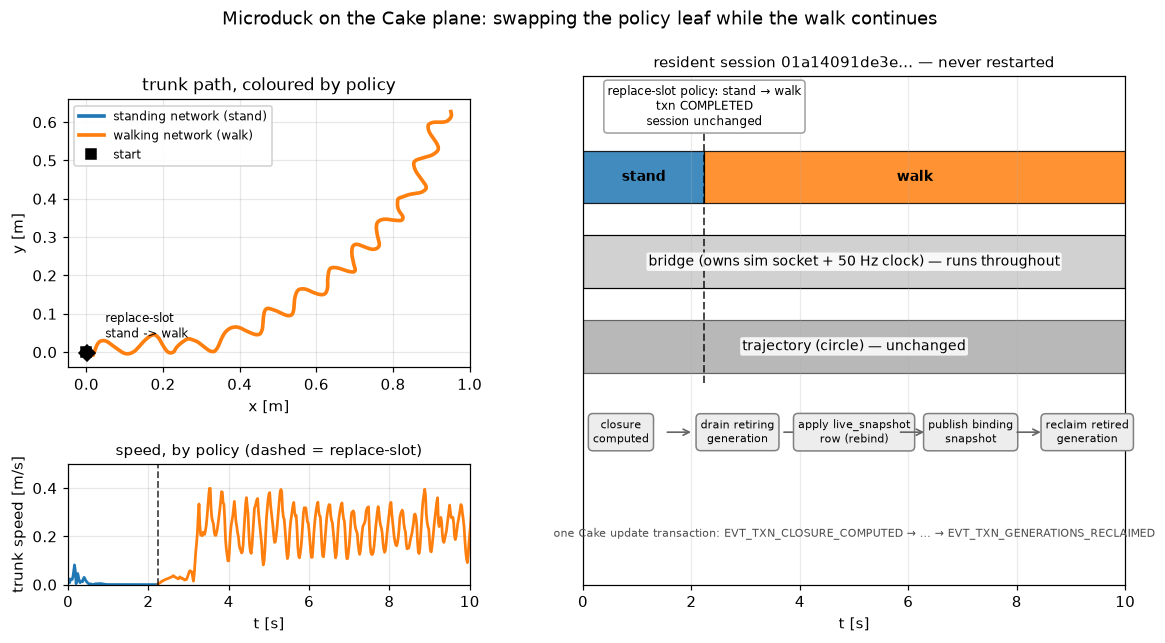
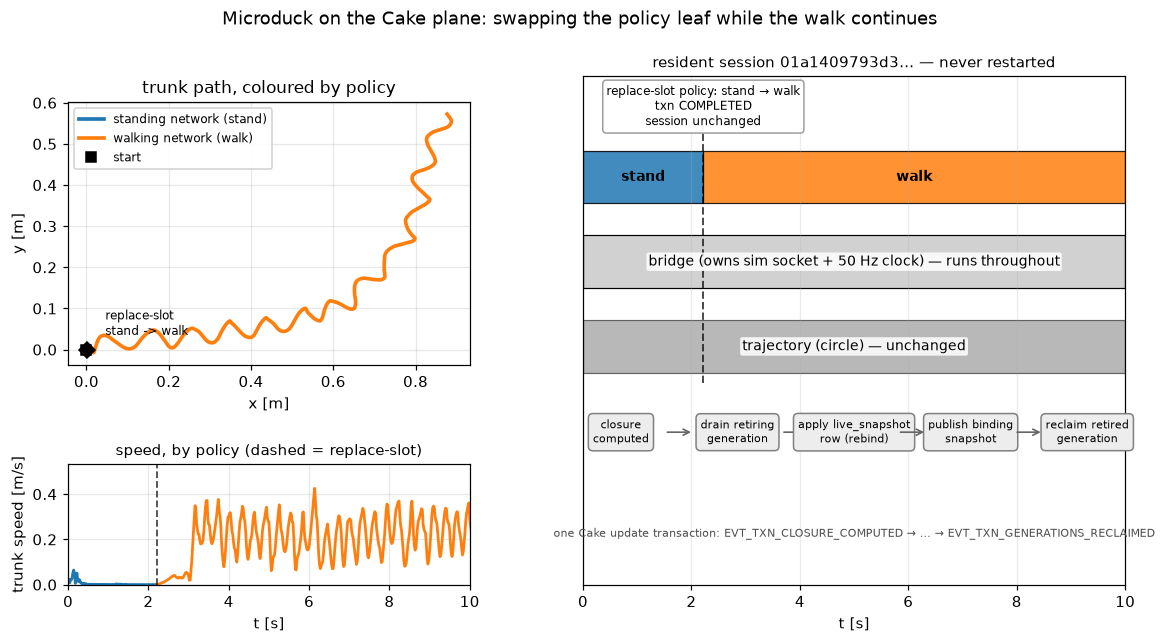
feat(cake): show the policy swap in the GIF, not just the figure
The trajectory GIF answers "the resident kept running while the trajectory
changed" with its tracking panel: the path coloured by the active module, and a
bottom strip naming it over time. The policy swap had only a plain walk GIF.

Drive that same panel with the *policy* schedule. `SwapPanels` grows a `label`
(the titles said "trajectory module"), the client takes `--reference` (the one
trajectory every scheduled segment tracks) and `--module-label`, and the runner
passes `--schedule stand@0,walk@2 --reference circle --module-label policy`. The
GIF now colours the path by which policy drove it and names it in the
"policy active over time (dashed = replace-slot swap)" strip.

The `cake` profile's 1080-px composite redraw is heavy enough to starve the
two-thread split (the policy is a leaf behind a separate clock owner), which made
the duck fall before the swap in ~2 of 3 runs; `compact` renders the same panel
at 720 px and holds, so `make policy-swap` defaults to it (PGIF=cake for the
heavy profile).

diff --git a/demos/demo_cake_policy.py b/demos/demo_cake_policy.py
@@ -189,6 +189,8 @@ def run(
     segments: list[tuple[str, float]] | None = None,
     panel_seconds: float | None = None,
     anchor: bool = False,
+    reference_traj: str | None = None,
+    module_label: str = "trajectory module",
     video_name: str = "microduck_cake_walk.gif",
 ) -> dict:
     # The sim's own `command` field is unused: the trajectory comes from the
@@ -213,9 +215,15 @@ def run(
     ctes: list[float] = []
     last_action = np.zeros(N_ACTIONS)
 
-    # The reference path each scheduled module tracks, so the client can measure
-    # cross-track error without reaching into the private capsule.
-    refs = [_reference_for(name) for name, _ in segments] if segments else None
+    # The reference path each scheduled segment tracks, so the client can measure
+    # cross-track error without reaching into the private capsule. A policy swap
+    # schedules *policy* segments (stand/walk) under one trajectory, so `reference`
+    # names the trajectory whose path every segment tracks.
+    if segments and reference_traj:
+        base = _reference_for(reference_traj)
+        refs = [base] * len(segments)
+    else:
+        refs = [_reference_for(name) for name, _ in segments] if segments else None
     # Anchored metric state: the capture is per segment (see the loop).
     anchor_seg = -1
     anchor_pose = (0.0, 0.0, 0.0)
@@ -236,7 +244,9 @@ def run(
         # The client is launched with a +40 s safety margin on the loop, so the
         # panel's time axis must follow the *intended* run, not the loop bound —
         # otherwise the walk only fills a third of the window.
-        panels = SwapPanels(seg_list, panel_seconds if panel_seconds is not None else seconds, references=seg_refs)
+        panels = SwapPanels(
+            seg_list, panel_seconds if panel_seconds is not None else seconds, references=seg_refs, label=module_label
+        )
         grabber = FrameGrabber(sim, render, panels)
         if not grabber.enabled:
             grabber = None
@@ -366,6 +376,16 @@ def main(argv: list[str] | None = None) -> int:
         help="the trajectory capsules re-parent their paths onto the duck; mirror that in the error metric",
     )
     parser.add_argument(
+        "--reference",
+        default=None,
+        help="trajectory whose path every scheduled segment tracks (for a policy swap: --schedule stand@0,walk@2 --reference circle)",
+    )
+    parser.add_argument(
+        "--module-label",
+        default="trajectory module",
+        help="what --schedule's segments are, for the panel titles (e.g. 'policy')",
+    )
+    parser.add_argument(
         "--video-name",
         default="microduck_cake_walk.gif",
         help="GIF file name under --out-dir",
@@ -386,6 +406,8 @@ def main(argv: list[str] | None = None) -> int:
         segments=segments,
         panel_seconds=args.panel_duration,
         anchor=args.anchor,
+        reference_traj=args.reference,
+        module_label=args.module_label,
         video_name=args.video_name,
     )
     if metrics["steps"] < 10:

diff --git a/src/shinro_demo_microduck/viz.py b/src/shinro_demo_microduck/viz.py
@@ -519,6 +519,7 @@ class SwapPanels:
         duration,
         *,
         references: list[np.ndarray | None] | None = None,
+        label: str = "trajectory module",
         wh: tuple[float, float] = (6.2, 6.6),
         dpi: int = 100,
     ) -> None:
@@ -534,7 +535,7 @@ class SwapPanels:
         self.fig = plt.figure(figsize=wh, dpi=dpi)
         gs = self.fig.add_gridspec(3, 1, height_ratios=[3.0, 1.6, 0.7], hspace=0.5)
         self.ax = self.fig.add_subplot(gs[0, 0])
-        self.ax.set_title("bird's-eye trunk path vs reference, coloured by trajectory module", fontsize=11)
+        self.ax.set_title(f"bird's-eye trunk path vs reference, coloured by {label}", fontsize=11)
         # The reference each module steers toward, dashed and without a legend
         # entry: the trunk line already names the module. Kept so an anchored run
         # can re-place a segment's reference once its anchor is known.
@@ -559,7 +560,7 @@ class SwapPanels:
         self.ax.legend(loc="best", fontsize=8, framealpha=0.9)
 
         self.axerr = self.fig.add_subplot(gs[1, 0])
-        self.axerr.set_title("tracking error (cross-track |Δ|), coloured by trajectory module", fontsize=9)
+        self.axerr.set_title(f"tracking error (cross-track |Δ|), coloured by {label}", fontsize=9)
         self.lines_err = [
             self.axerr.plot([], [], "-", color=_SEGMENT_COLORS[i % len(_SEGMENT_COLORS)], lw=1.8)[0] for i in range(len(self.names))
         ]
@@ -587,7 +588,7 @@ class SwapPanels:
         self.axt.set_ylim(0.0, 1.0)
         self.axt.set_yticks([])
         self.axt.set_xlabel("t [s]")
-        self.axt.set_title("trajectory module active over time (dashed = replace-slot swap)", fontsize=9)
+        self.axt.set_title(f"{label} active over time (dashed = replace-slot swap)", fontsize=9)
 
     def segment_at(self, t: float) -> int:
         """Index of the trajectory active at ``t`` seconds."""

diff --git a/docs/cake-policy-swap.md b/docs/cake-policy-swap.md
@@ -51,9 +51,12 @@ The observable difference:
 `make policy-swap` writes two figures under `MEDIA_DIR` (the committed copies
 live in `docs/media/cake/`):
 
-* `microduck_cake_policy_swap.gif` — the run itself: the duck balances in place
-  under the standing policy for the first two seconds, then — from the swap
-  onward — walks the circle; and
+* `microduck_cake_policy_swap.gif` — the run itself, with the same tracking
+  panel the trajectory GIF uses but driven by the *policy* schedule: the path is
+  coloured by which policy drove it, and the bottom strip, "policy active over
+  time (dashed = replace-slot swap)", names `stand` then `walk` across the swap.
+  The duck balances in place under the standing policy for the first two
+  seconds, then walks the circle; and
 * `microduck_cake_policy_swap.png` — the run drawn the way the trajectory swap's
   figure is (`scripts/plot_cake_policy_swap.py`): the trunk path coloured by
   **which policy** drove it, the trunk speed beside it (near zero while it
